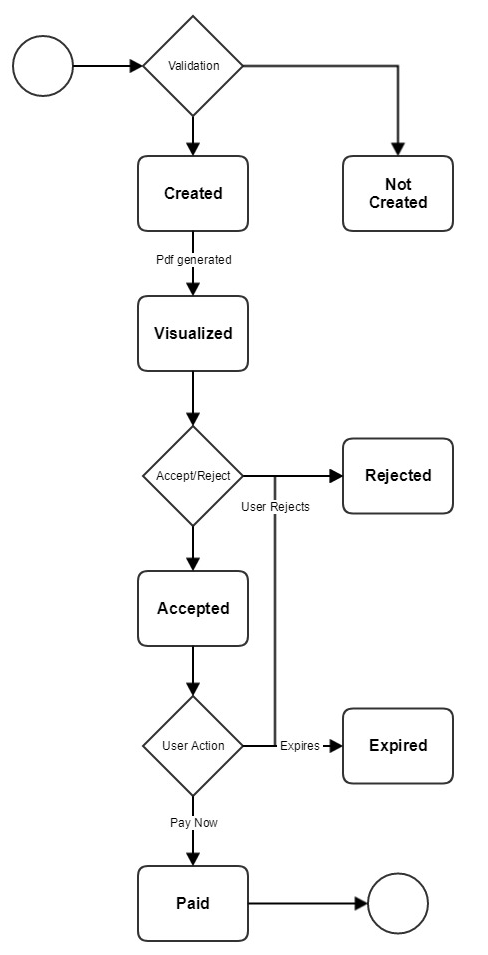
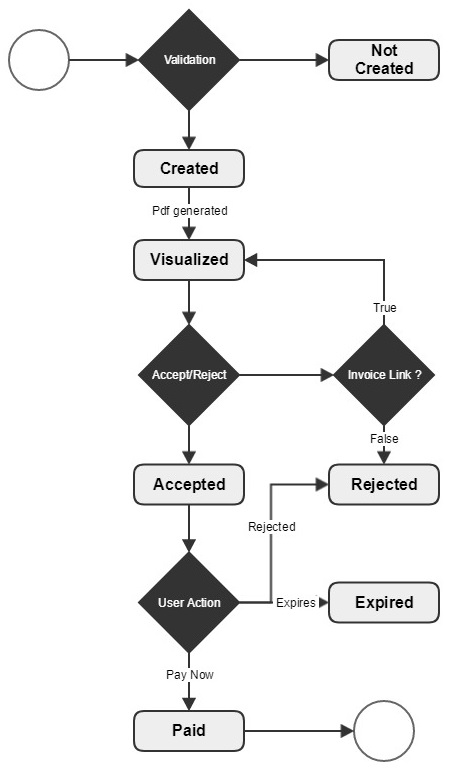
Udating error codes & diagram

diff --git a/docs/index.md b/docs/index.md
@@ -141,6 +141,44 @@ Possible error responses contain these five properties:
 
 [PDF_generation.pdf](https://github.com/MobilePayDev/MobilePay-Invoice/blob/master/docs/assets/pdf/PDF_generation.pdf)
 
+### <a name="invoice-flow"/> Invoice Flow
+
+**Invoice** status flow can be visualized by the following diagram.
+
+![](assets/images/invoice_flow.png)
+
+### <a name="validation"/> Validation
+
+**Invoice** creation step follows business logic and may return following **Error Codes**
+
+|Error Code            |Description                                                                 |Logic                                       |
+|----------------------|----------------------------------------------------------------------------|--------------------------------------------|
+|10101                 |MobilePay User not found                                                    |-                                           |
+|10102                 |MobilePay user not available                                                |-                                           |
+|10103                 |MobilePay user not found                                                    |-                                           |
+|10104                 |Invoice already exists                                                      |-                                           |
+|10105                 |Failed to create Invoice                                                    |-                                           |
+|10106                 |Invoice country does not match consumer country                             |-                                           |
+|10107                 |Specified currency does not match specified country                         |-                                           |
+|10201                 |Limits exceeded                                                             |-                                           |
+|10202                 |Invoice issuer not found                                                    |-                                           |
+|10203                 |Account validation error                                                    |-                                           |
+|10301                 |Invoice already exists                                                      |-                                           |
+|10302                 |Merchant not found                                                          |-                                           |
+|10303                 |Invoice issuer not found                                                    |-                                           |
+|10304                 |MobilePay User not found                                                    |-                                           |
+|10305                 |MobilePay User not found                                                    |-                                           |
+|10306                 |MobilePay User not found                                                    |-                                           |
+|10307                 |Reference number is not valid for FIK payment                               |-                                           |
+|10308                 |Reference number is required for FIK  payment                               |-                                           |
+|10309                 |Reference number is not exactly 15 digits, which is required for FIK payment|-                                           |
+|10310                 |Due Date must be no later than 400 days from today.                         |Due Date > Create Date + 400(days)          |
+|10311                 |Due Date must be today or later                                             |Due Date >= Create Date                     |
+|10312                 |Issue Date must be no later than today                                      |Issue Date >= Create Date                   |
+|10313                 |Your daily limit has been reached                                           |-                                           |
+|10314                 |Limits exceeded                                                             |-                                           |
+|10315                 |FIK creditor validation error                                               |-                                           |
+
 ## <a name="invoice-direct"/>  InvoiceDirect
 
 When the **Consent** between **Merchant** and the **Integrator** is established, use the `POST api/v1/merchants/{merchantId}/invoices` endpoint to en-queue **Invoice**.
@@ -253,12 +291,6 @@ To get invoice status use `GET /api/v1/merchants/{merchantId}/invoices/{invoiceI
   "Status": "Rejected"
 }
 ```
-
-### <a name="invoice-flow"/> Invoice Flow
-
-**Invoice** status flow can be visualized by the following diagram.
-
-![](assets/images/invoice_flow.png)
 
 ## <a name="invoice-link"/> InvoiceLink
 
